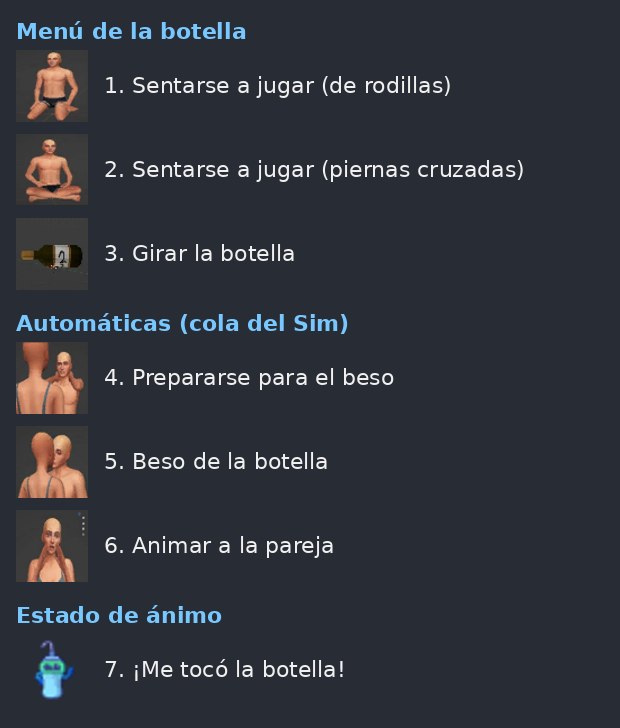
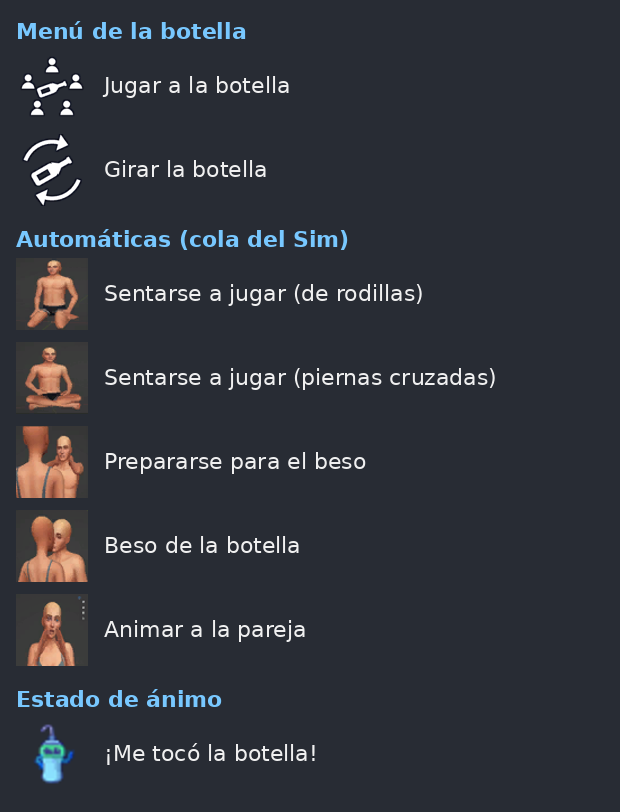
Juego de la botella: iconos dibujados para el menú
«Jugar a la botella» y «Girar la botella» llevan ahora iconos de
silueta blanca con contorno, como los del menú del juego, en lugar de
capturas de las animaciones. Los PNG están en botella/fuentes/iconos y
construir_botella.py los convierte a DST5.

Claude-Session: https://claude.ai/code/session_01BQBAgYWwhyjFX8ruG6ccLe

diff --git a/herramientas/construir_botella.py b/herramientas/construir_botella.py
@@ -22,7 +22,7 @@ import zipfile
 import zlib
 
 sys.path.insert(0, os.path.dirname(os.path.abspath(__file__)))
-from iconos_dst import leer_paquete, escribir_paquete, ZLIB  # noqa: E402
+from iconos_dst import leer_paquete, escribir_paquete, png_a_dst5, ZLIB  # noqa: E402
 
 RAIZ = os.path.dirname(os.path.dirname(os.path.abspath(__file__)))
 FUENTES = os.path.join(RAIZ, 'botella', 'fuentes')
@@ -44,9 +44,9 @@ CLIPS_CENTRADOS = {
     'set_5': 'BesoB_Preparar',
     'set_6': 'BesoB_Besar',
 }
-# Iconos del pack de Love4Sims que usan las interacciones.
-ICONOS = {0x99F8E028DF8B973F, 0x6D21261B31458EBB, 0x8685C4A352B0A407,
-          0x449152D865C905EF, 0x69922336B8917F78, 0x2042072F05FB1C99}
+# Iconos del pack de Love4Sims que usan las interacciones de la cola del Sim.
+ICONOS = {0x6D21261B31458EBB, 0x8685C4A352B0A407, 0x449152D865C905EF,
+          0x69922336B8917F78, 0x2042072F05FB1C99}
 
 ESPANOL = 0x13
 ROOT_BIND = 0x57884BB9  # b__ROOT_bind__
@@ -175,6 +175,8 @@ def rellenar(xml, textos):
             return '0x%08X' % textos[valor][0]
         if tipo == 'clip':
             return nombre_clip(valor)
+        if tipo == 'icono':
+            return '00b2d882:00000000:%016x' % id_tuning(valor)
         raise ValueError(m.group(0))
     xml = re.sub(r'\{\{(\w+):([^}]+)\}\}', sustituir, xml)
     if '{{' in xml:
@@ -194,6 +196,17 @@ def tuning(textos):
                 cab = re.search(r'<I c="[^"]+" i="([^"]+)" m="[^"]+" n="[^"]+" s="(\d+)"', xml)
                 tipo, instancia = TIPO_TUNING[cab.group(1)], int(cab.group(2))
             salida.append(recurso(tipo, 0, instancia, xml.encode('utf-8')))
+    return salida
+
+
+def iconos_propios():
+    """Iconos del menú dibujados para el mod (PNG en fuentes/iconos, se pasan a DST)."""
+    carpeta = os.path.join(FUENTES, 'iconos')
+    salida = []
+    for archivo in sorted(os.listdir(carpeta)):
+        nombre = os.path.splitext(archivo)[0].replace('_Botella_', ':Botella_', 1)
+        png = open(os.path.join(carpeta, archivo), 'rb').read()
+        salida.append(recurso(IMAGEN, 0, id_tuning(nombre), png_a_dst5(png)))
     return salida
 
 
@@ -237,6 +250,7 @@ def main(animaciones, botella, salida):
     recursos = [r for r in rec_botella if r['t'] not in TIPOS_SUSTITUIDOS]
     recursos += clips(rec_anim)
     recursos += [r for r in rec_anim if r['t'] == IMAGEN and ((r['ih'] << 32) | r['il']) in ICONOS]
+    recursos += iconos_propios()
     recursos += tuning(textos)
     recursos += tablas_textos(textos, [r for r in rec_botella if r['t'] == STBL])
 
